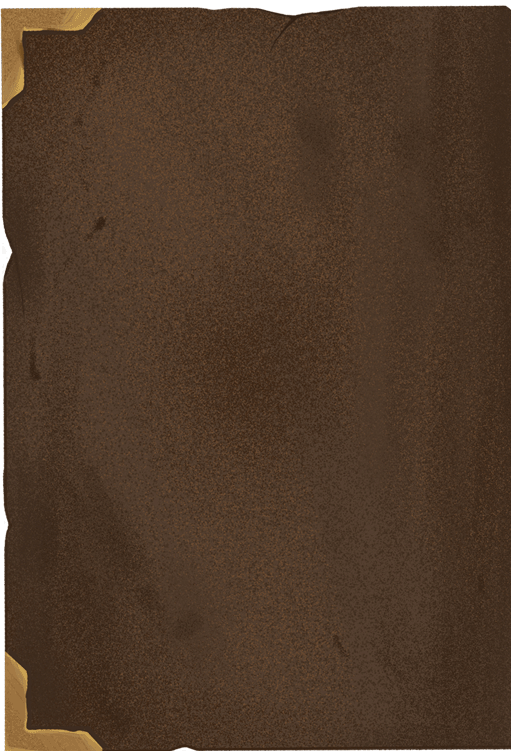
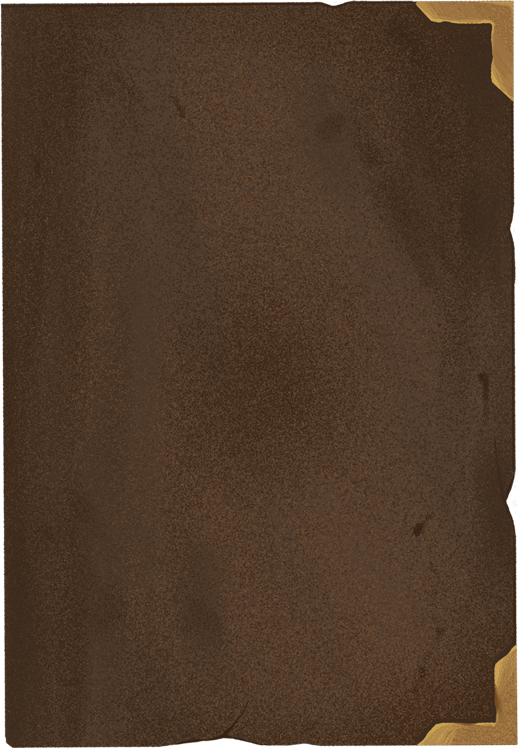
feat: 完成首页翻页动画

diff --git a/src/components/Home/index.less b/src/components/Home/index.less
@@ -16,14 +16,52 @@
   }
   .first-page {
     position: absolute;
-    bottom: 1.45rem;
-    left: -1.5rem;
-    width: 2.5rem;
+    bottom: 1.57rem;
+    left: 0.79rem;
+    width: 2.4rem;
+    height: 3.4rem;
+    transform-style: preserve-3d;
+    transform-origin: 0 0 0;
+    transform: rotateZ(-7deg);
+    //animation: wrapper 6s ease-in-out 1;
+    transition: all ease-in-out 4s ;
+    div {
+      transform-origin: 0 100%;
+      transform-style: preserve-3d;
+    }
+  }
+
+  .wrapper-animate {
+    transform: rotateZ(-7deg) rotateY(180deg);
+  }
+
+  @keyframes wrapper {
+    100% {
+      transform: rotateZ(-7deg) rotateY(180deg);
+    }
+  }
+  .first-page-front {
+    position: absolute;
+    //bottom: 1.8rem;
+    //left: 0.98rem;
+    width: 2.4rem;
+    height: 3.4rem;
+    background: url("../../../static/img/firse-normal.png") no-repeat;
+    background-size: cover;
+    //transform: rotateZ(-7deg);
+  }
+  .first-page-back {
+    position: absolute;
+    //bottom: 1.45rem;
+    //left: -1.5rem;
+    width: 2.4rem;
     height: 3.4rem;
     //animation: tap 1s linear infinite;
     background: url("../../../static/img/first-converse.png") no-repeat;
     background-size: cover;
-    transform: rotateZ(-7deg);
+    //transform: rotateZ(-7deg);
+    transform: rotateY(0.1deg);
+    transform-origin: 100% 0;
   }
 }
 

diff --git a/src/components/Home/index.js b/src/components/Home/index.js
@@ -1,7 +1,9 @@
 let timer = '';
 export default {
   data() {
-    return {};
+    return {
+      "wrapperAnimate": false,
+    };
   },
   methods: {
     onclickNoticeButton() {
@@ -19,15 +21,17 @@ export default {
     //     transform: 'scaleX(' + screenWidth / originWidth + ') scaleY(' + screenHeight / originHeight + ')'
     //   });
     // }, 1000)
-    $('.notice-button')[0].addEventListener('touchstart', (e) => {
-      e.preventDefault();
-      timer = setTimeout(() => {
-        this.onclickNoticeButton();
-      }, 800)
-    });
-    $('.notice-button')[0].addEventListener('touchend', () => {
-      if (timer) clearTimeout(timer);
-    });
-
+    // $('.notice-button')[0].addEventListener('touchstart', (e) => {
+    //   e.preventDefault();
+    //   timer = setTimeout(() => {
+    //     this.onclickNoticeButton();
+    //   }, 800)
+    // });
+    // $('.notice-button')[0].addEventListener('touchend', () => {
+    //   if (timer) clearTimeout(timer);
+    // });
+    setTimeout(() => {
+      this.wrapperAnimate = true;
+    }, 1000)
   }
 };

diff --git a/src/components/Home/index.html b/src/components/Home/index.html
@@ -1,5 +1,12 @@
 <div class="full-page home ">
   <div class="book"></div>
-  <div class="first-page"></div>
+  <div
+      class="first-page"
+      :class="{'wrapper-animate' : wrapperAnimate}"
+  >
+    <div class="first-page-front"></div>
+    <div class="first-page-back"></div>
+  </div>
+
 </div>
 
